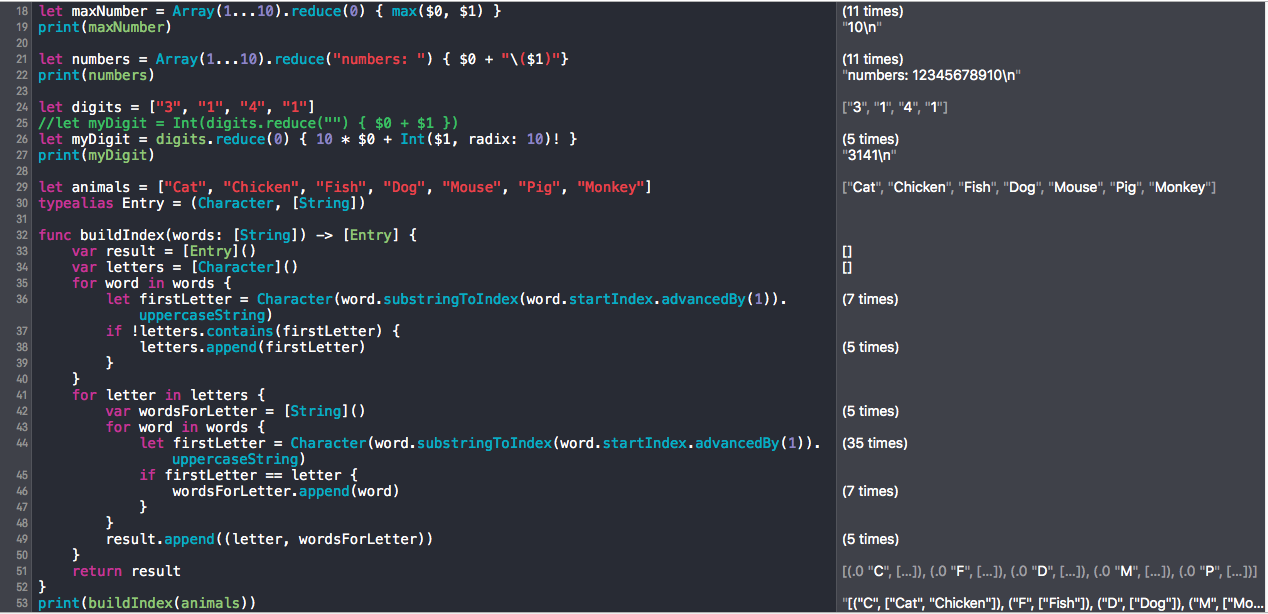
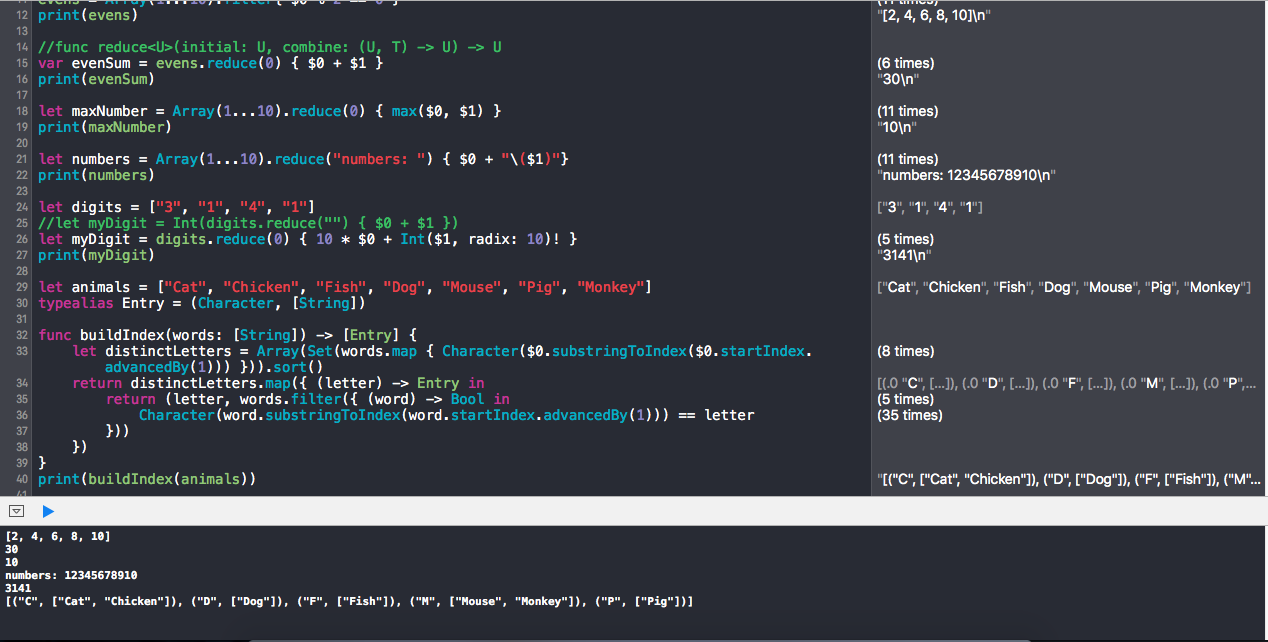
Edit Project FunctionalProgramming

diff --git a/FunctionalProgramming.playground/Contents.swift b/FunctionalProgramming.playground/Contents.swift
@@ -30,25 +30,13 @@ let animals = ["Cat", "Chicken", "Fish", "Dog", "Mouse", "Pig", "Monkey"]
 typealias Entry = (Character, [String])
 
 func buildIndex(words: [String]) -> [Entry] {
-    var result = [Entry]()
-    var letters = [Character]()
-    for word in words {
-        let firstLetter = Character(word.substringToIndex(word.startIndex.advancedBy(1)).uppercaseString)
-        if !letters.contains(firstLetter) {
-            letters.append(firstLetter)
-        }
-    }
-    for letter in letters {
-        var wordsForLetter = [String]()
-        for word in words {
-            let firstLetter = Character(word.substringToIndex(word.startIndex.advancedBy(1)).uppercaseString)
-            if firstLetter == letter {
-                wordsForLetter.append(word)
-            }
-        }
-        result.append((letter, wordsForLetter))
-    }
-    return result
+    let distinctLetters = Array(Set(words.map { Character($0.substringToIndex($0.startIndex.advancedBy(1))) })).sort()
+    return distinctLetters.map({ (letter) -> Entry in
+        return (letter, words.filter({ (word) -> Bool in
+            Character(word.substringToIndex(word.startIndex.advancedBy(1))) == letter
+        }))
+    })
 }
 print(buildIndex(animals))
+
 
